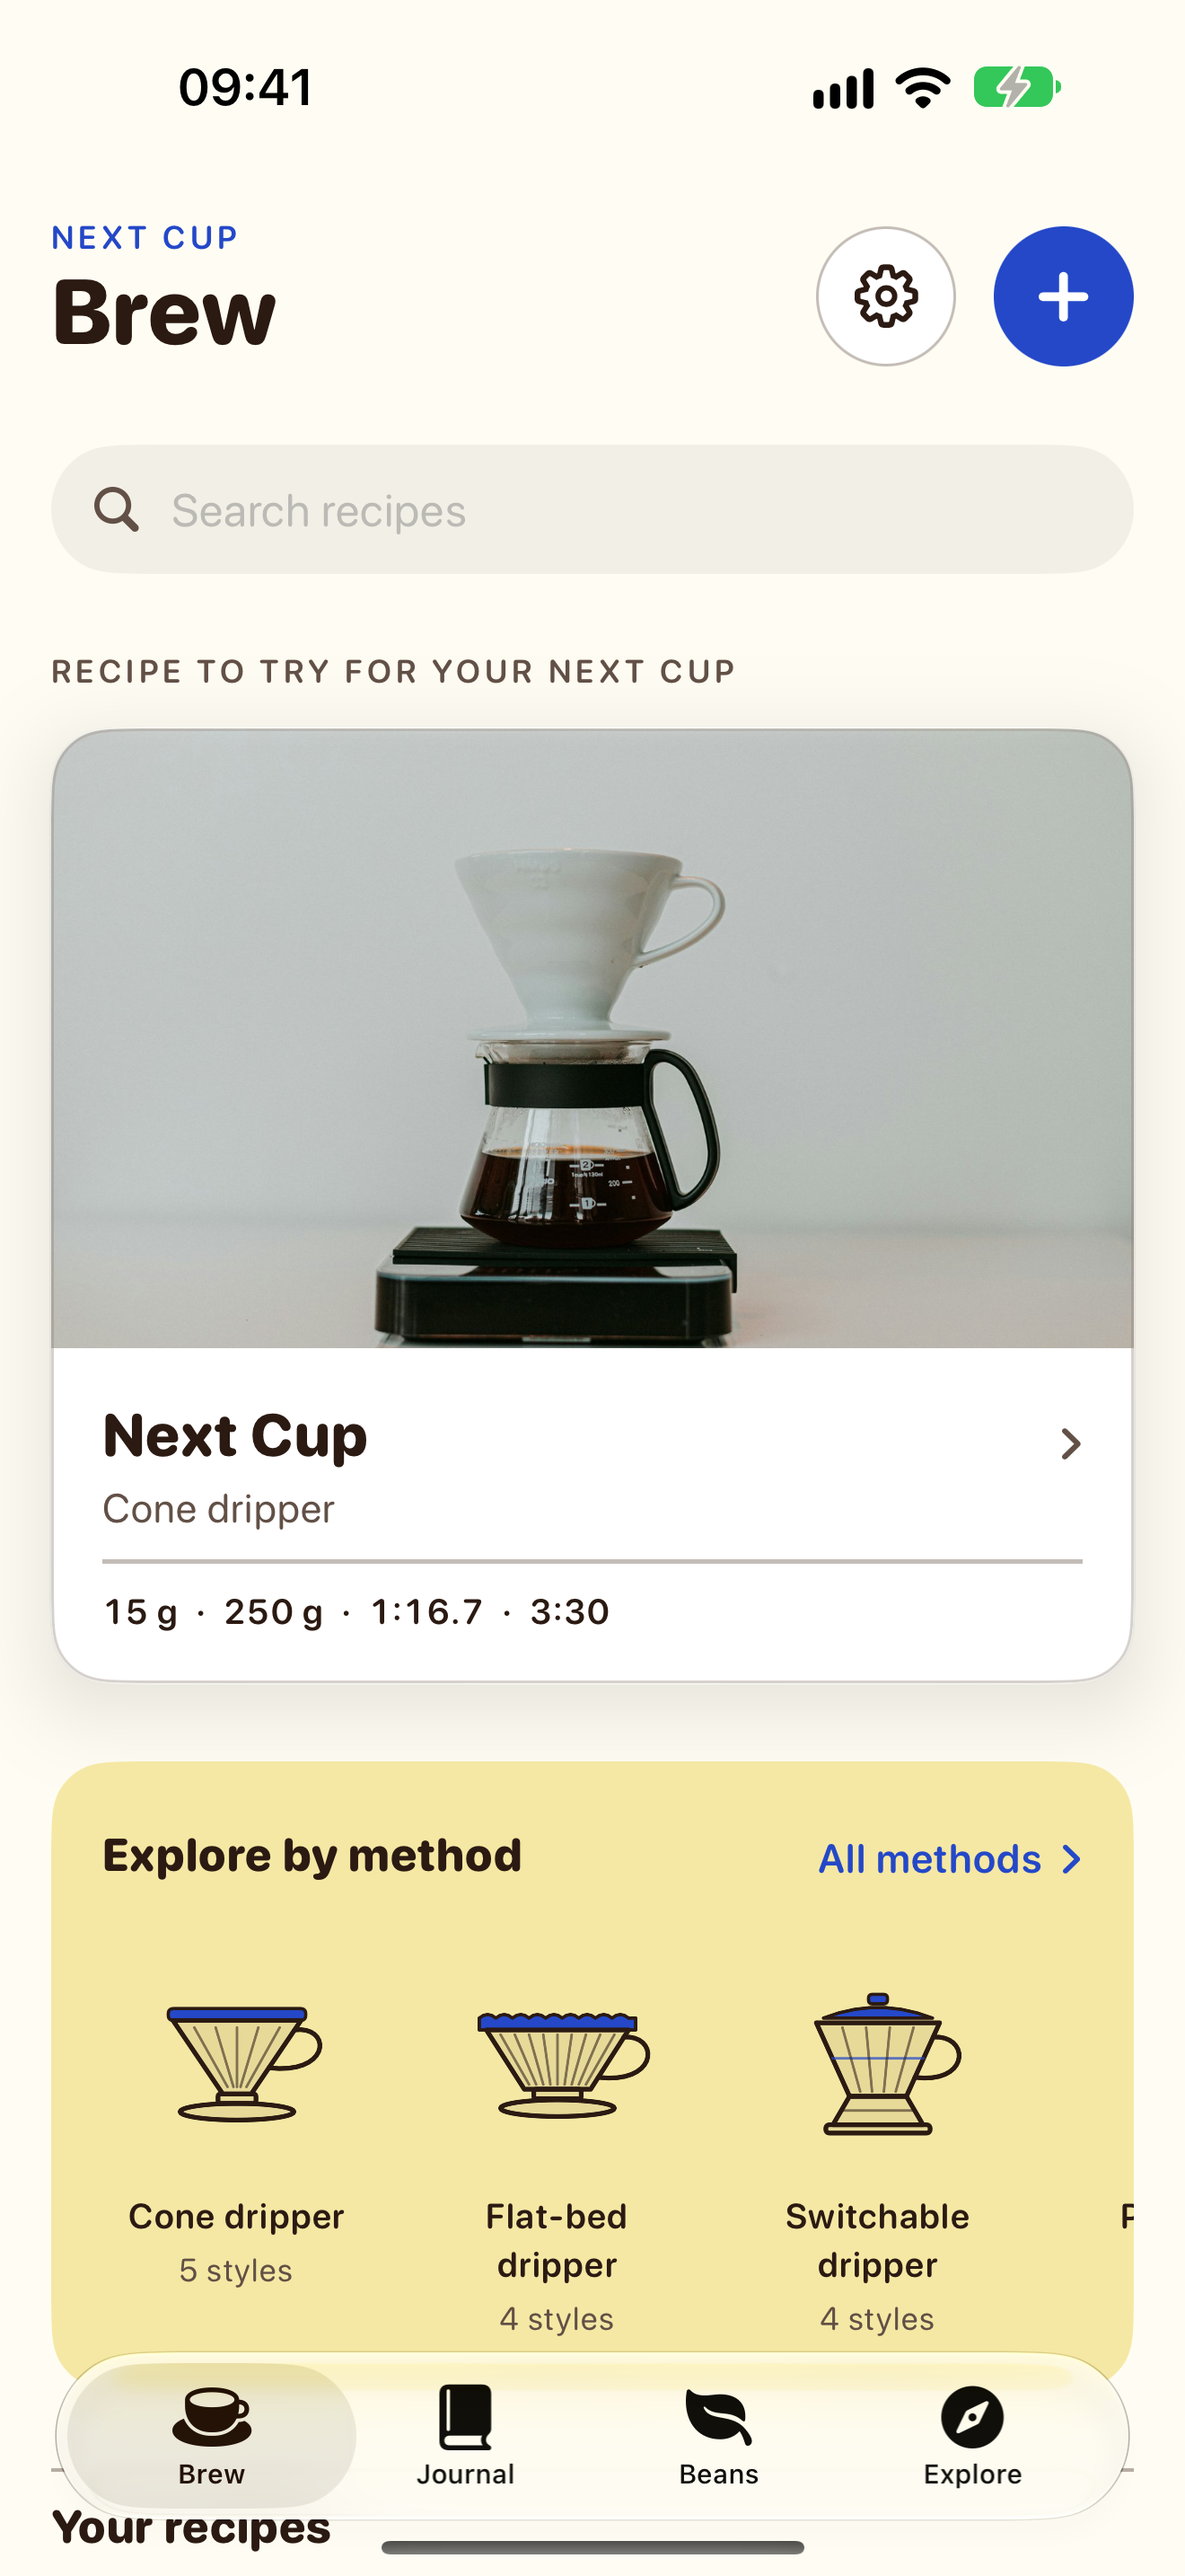
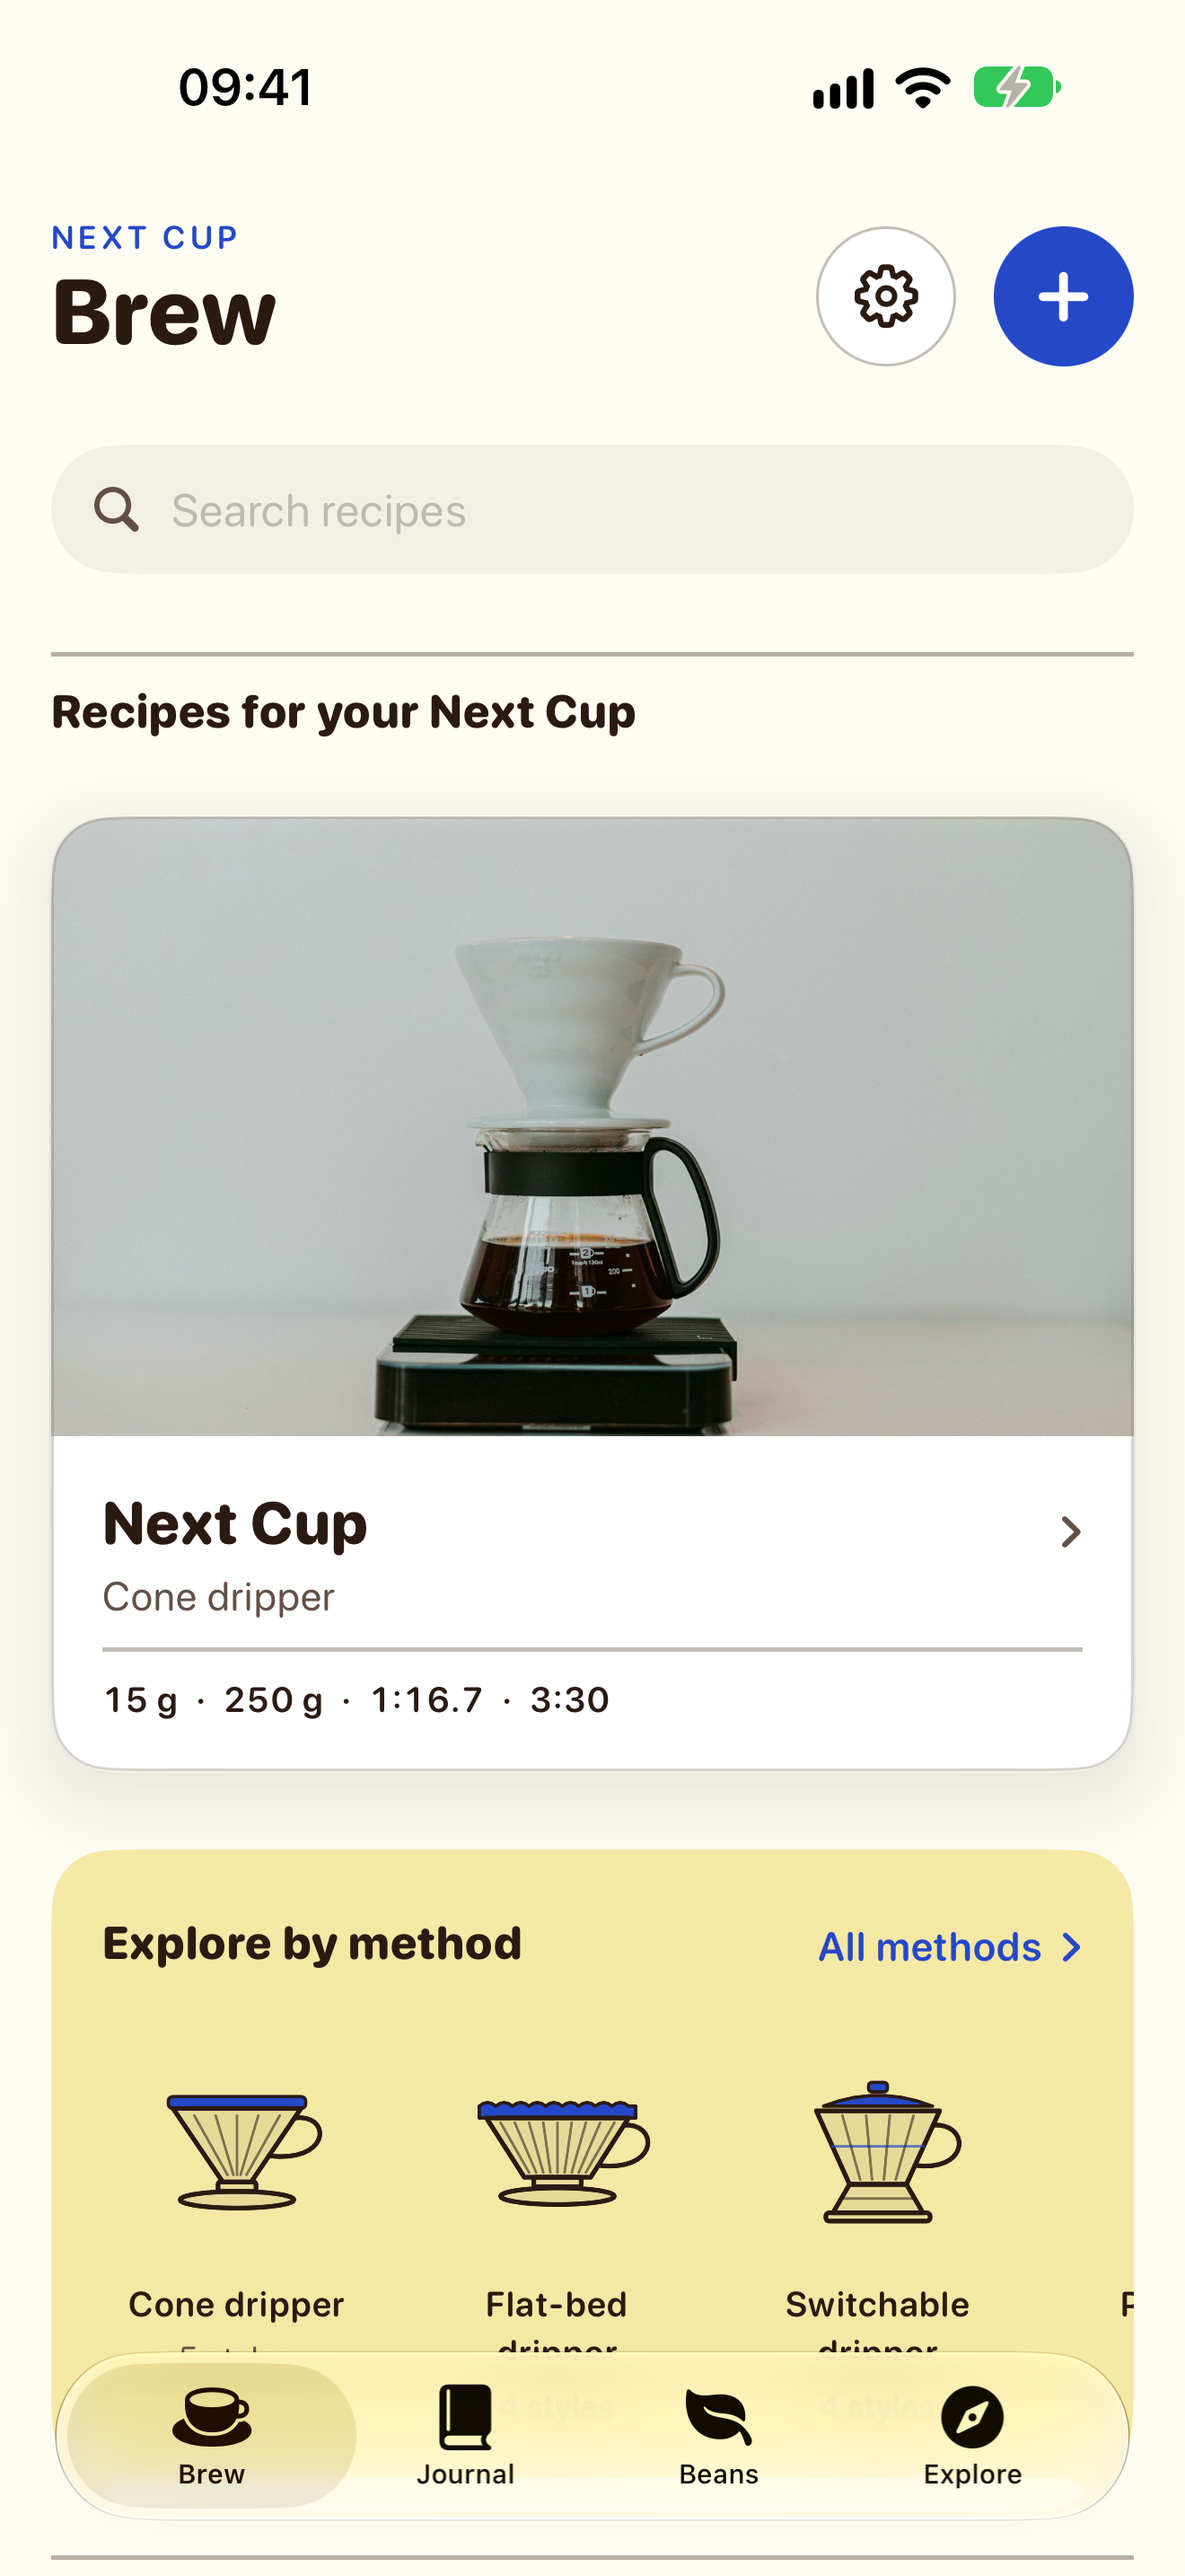
Retake the raw App Store shots from 1.4.1
The capture test waited for the old Brew tab heading, which 1.4 renamed to
"Recipes for your Next Cup".

Changed region(s): [[0.0311, 0.2483, 0.9629, 0.993]]

diff --git a/NextCupUITests/AppStoreCaptureUITests.swift b/NextCupUITests/AppStoreCaptureUITests.swift
@@ -54,7 +54,7 @@ final class AppStoreCaptureUITests: XCTestCase {
     try shoot("02-ask-ai")
     element("nextcup.save").tap()
     XCTAssertTrue(
-      app.staticTexts["RECIPE TO TRY FOR YOUR NEXT CUP"].waitForExistence(timeout: 5))
+      app.staticTexts["Recipes for your Next Cup"].waitForExistence(timeout: 5))
     try shoot("01-next-cup")
   }
 
